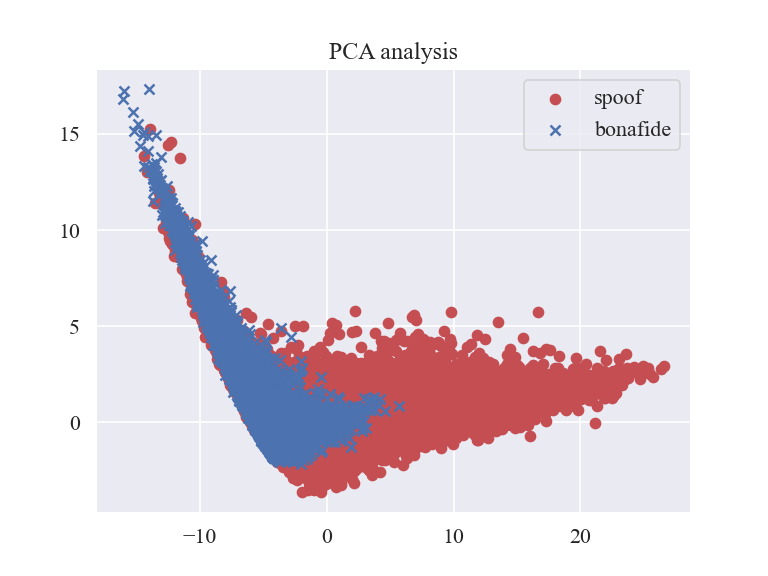
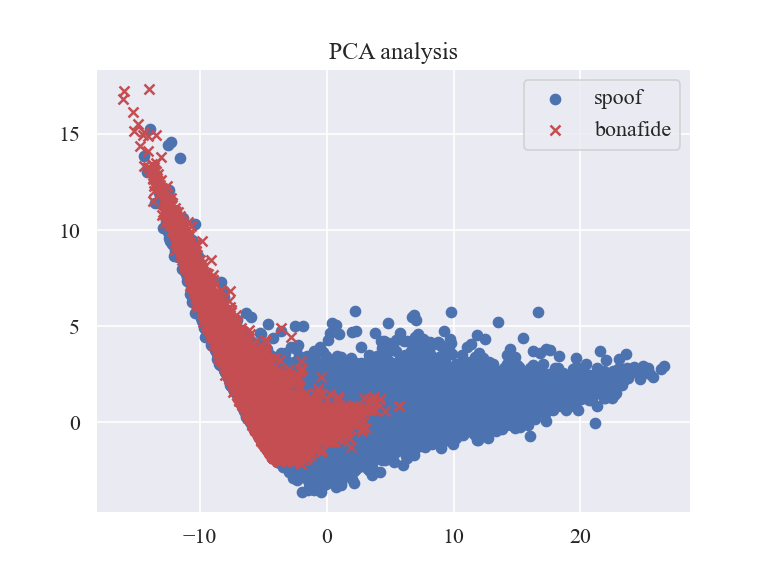
Update the pca figures.

diff --git a/visualize_pca.py b/visualize_pca.py
@@ -29,8 +29,8 @@ def pca(X,y):
     sns.set(font_scale=1.2)
 
     plt.rc('font', family='Times New Roman')
-    plt.scatter(yes_x, yes_y, c='r', marker='o', label='spoof')
-    plt.scatter(no_x, no_y, c='b', marker='x', label='bonafide')
+    plt.scatter(yes_x, yes_y, c='b', marker='o', label='spoof')
+    plt.scatter(no_x, no_y, c='r', marker='x', label='bonafide')
     plt.title("PCA analysis")
     plt.legend()
     plt.savefig('./models1028/ocsoftmax/aug/pca_40_dev.png', dpi=120)
